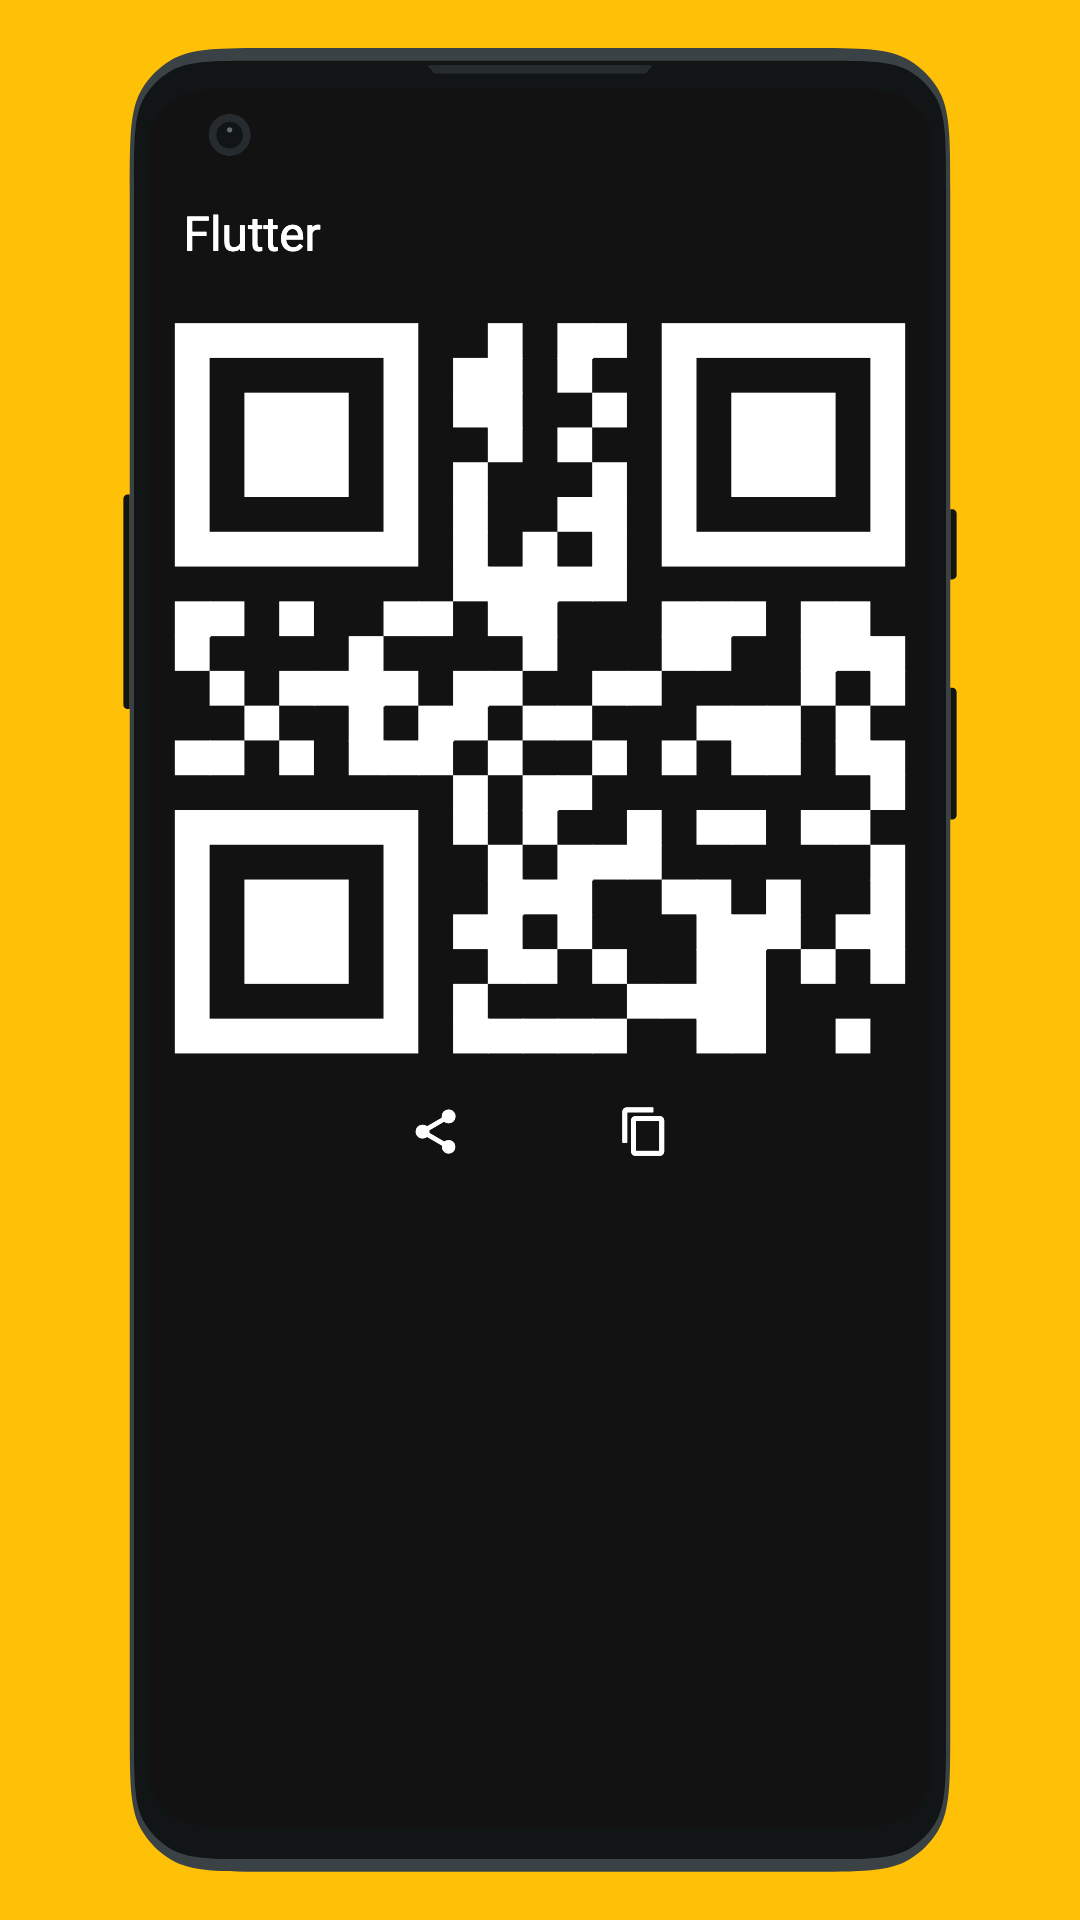
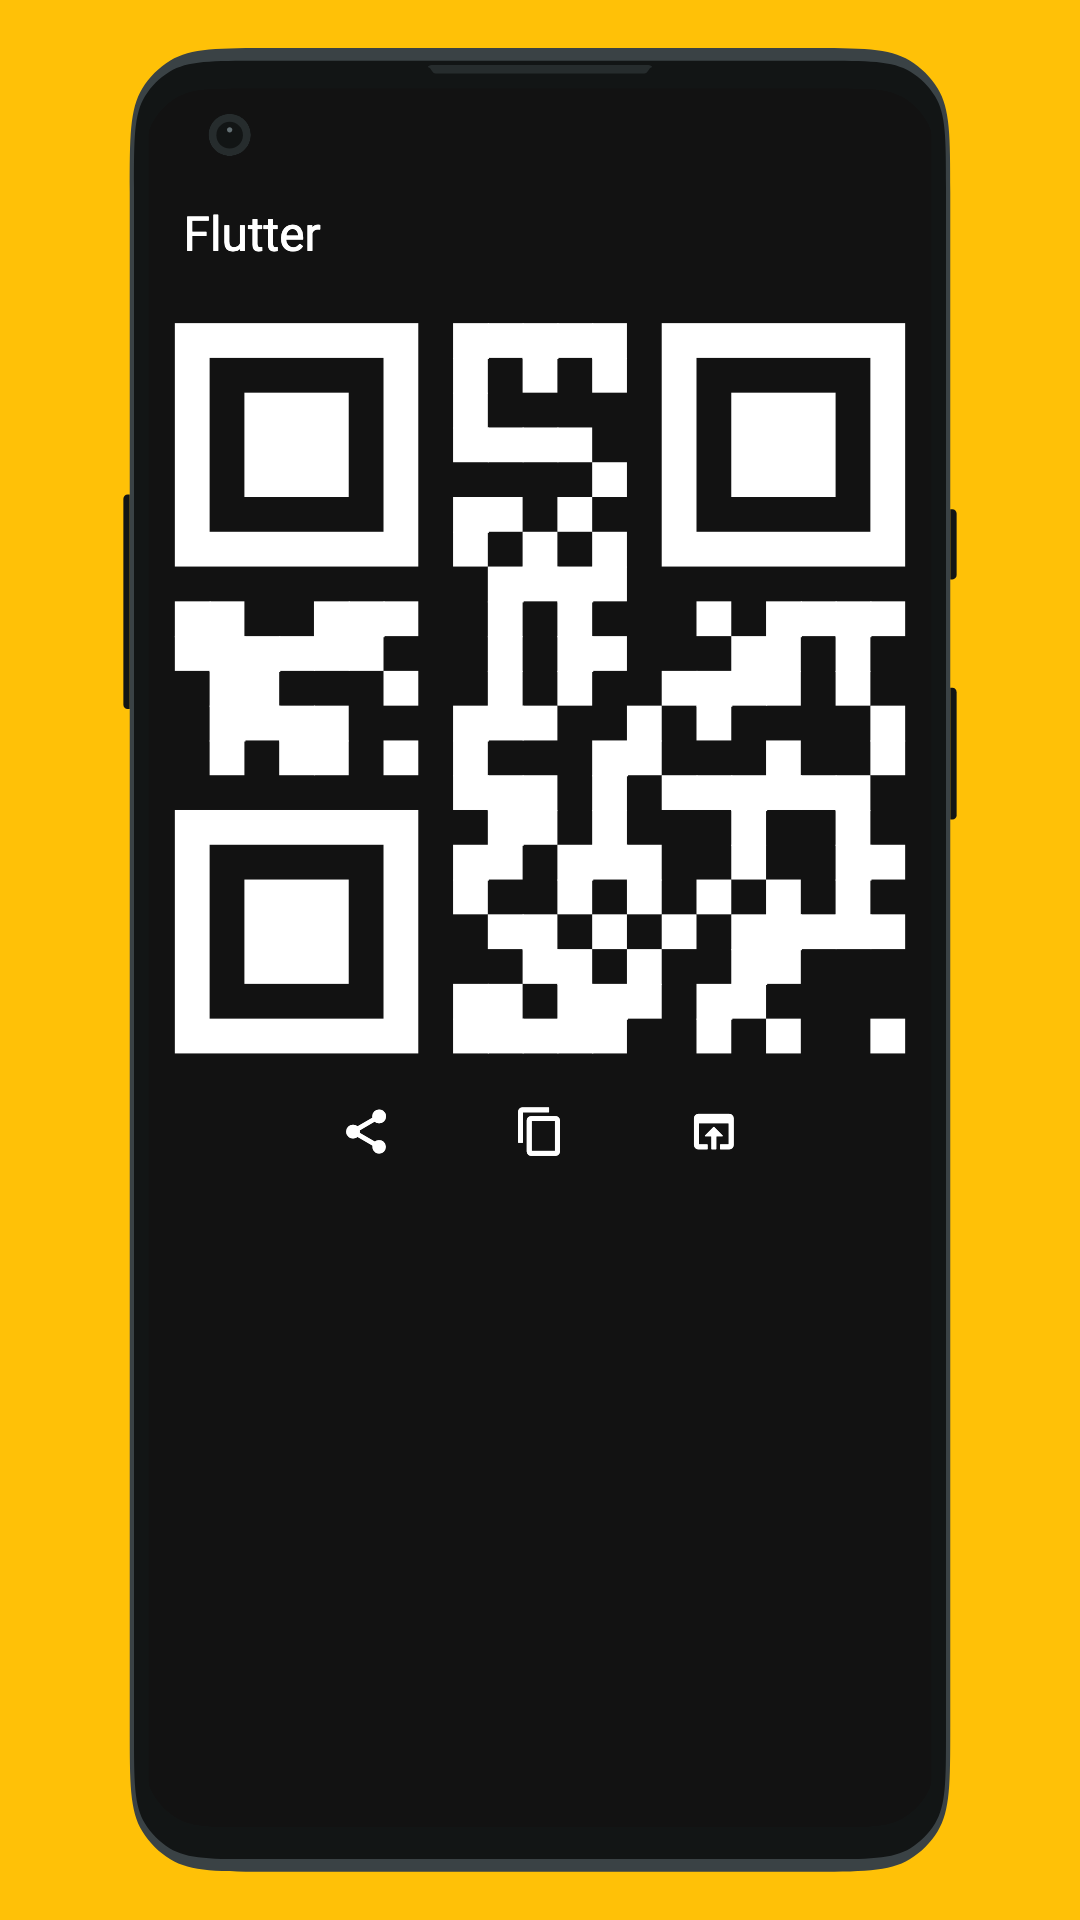
Add option to open data of certain qrcode types via intents

diff --git a/lib/features/details/qr_details_page.dart b/lib/features/details/qr_details_page.dart
@@ -1,9 +1,11 @@
 import 'package:flutter/material.dart';
 import 'package:flutter/services.dart';
 import 'package:flutter_riverpod/flutter_riverpod.dart';
+import 'package:qr_code_wallet/core/db/models/qr_code.dart';
 import 'package:qr_code_wallet/core/state/state.dart';
 import 'package:qr_code_wallet/core/widgets/qr_code_widget.dart';
 import 'package:share_plus/share_plus.dart';
+import 'package:url_launcher/url_launcher.dart';
 
 class QRDetailsPage extends ConsumerWidget {
   static const path = '/details/:id';
@@ -32,22 +34,64 @@ class QRDetailsPage extends ConsumerWidget {
       body: Column(
         children: [
           QRCodeWidget(data: qrCode.data),
+          // if (kDebugMode) Text(qrCode.data),
           Row(
             mainAxisSize: MainAxisSize.min,
+            spacing: qrCode.canLaunch ? 32 : 48,
             children: [
               IconButton(
                 onPressed: () => Share.share(qrCode.data),
                 icon: const Icon(Icons.share),
               ),
-              const SizedBox(width: 48),
               IconButton(
                 onPressed: () => Clipboard.setData(ClipboardData(text: qrCode.data)),
                 icon: const Icon(Icons.copy),
               ),
+              if (qrCode.canLaunch)
+                IconButton(
+                  onPressed: () => launchUrl(Uri.parse(qrCode.adjustedSchema)),
+                  icon: Icon(qrCode.icon),
+                ),
             ],
           ),
         ],
       ),
     );
   }
+}
+
+extension on QRCode {
+  bool get canLaunch => switch (type) {
+        QRCodeType.url => true,
+        QRCodeType.email => true,
+        QRCodeType.sms => true,
+        QRCodeType.phone => true,
+        _ => false,
+      };
+
+  String get adjustedSchema {
+    if (type == QRCodeType.email) {
+      // matmsg:TO:a@a.com;SUB:Title;BODY:Message;;
+      // 'mailto:<email address>?subject=<subject>&body=<body>'
+      final regex = RegExp(r':TO:([\w-\.]+@([\w-]+\.)+[\w-]{2,4});SUB:(.+);BODY:(.+)');
+      final match = regex.allMatches(data);
+      if (match.isNotEmpty) {
+        final email = match.first.group(1);
+        final subject = match.first.group(3);
+        final body = match.first.group(4);
+
+        return 'mailto:$email?subject=$subject&body=$body';
+      }
+    }
+
+    return data;
+  }
+
+  IconData get icon => switch (type) {
+        QRCodeType.url => Icons.open_in_browser,
+        QRCodeType.email => Icons.email,
+        QRCodeType.sms => Icons.sms,
+        QRCodeType.phone => Icons.phone,
+        _ => throw ArgumentError(),
+      };
 }
